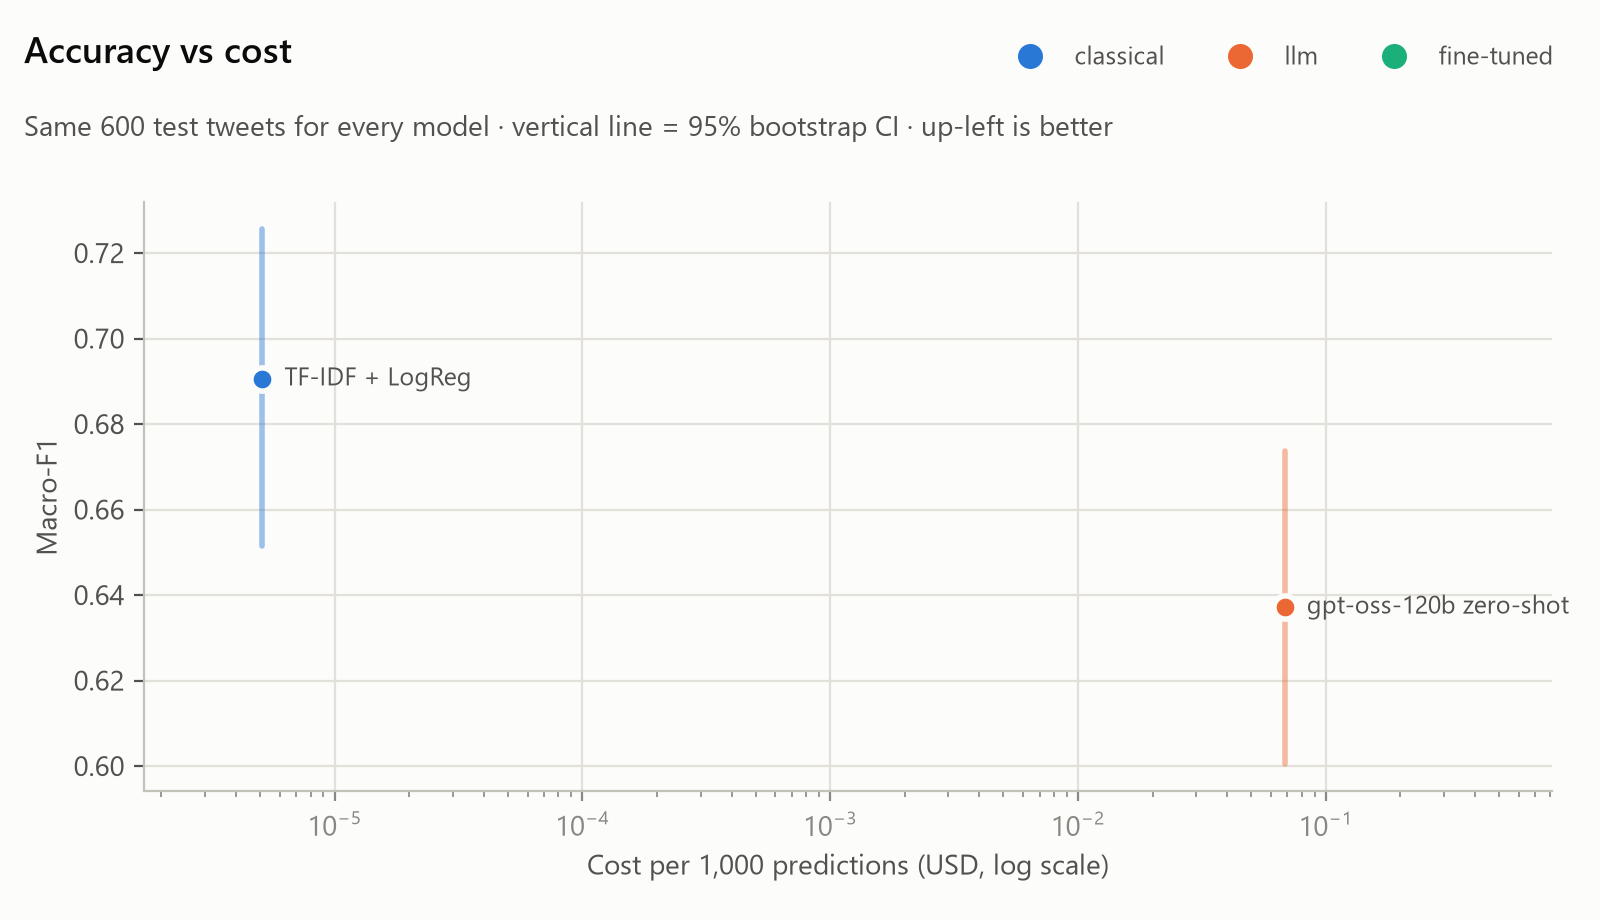
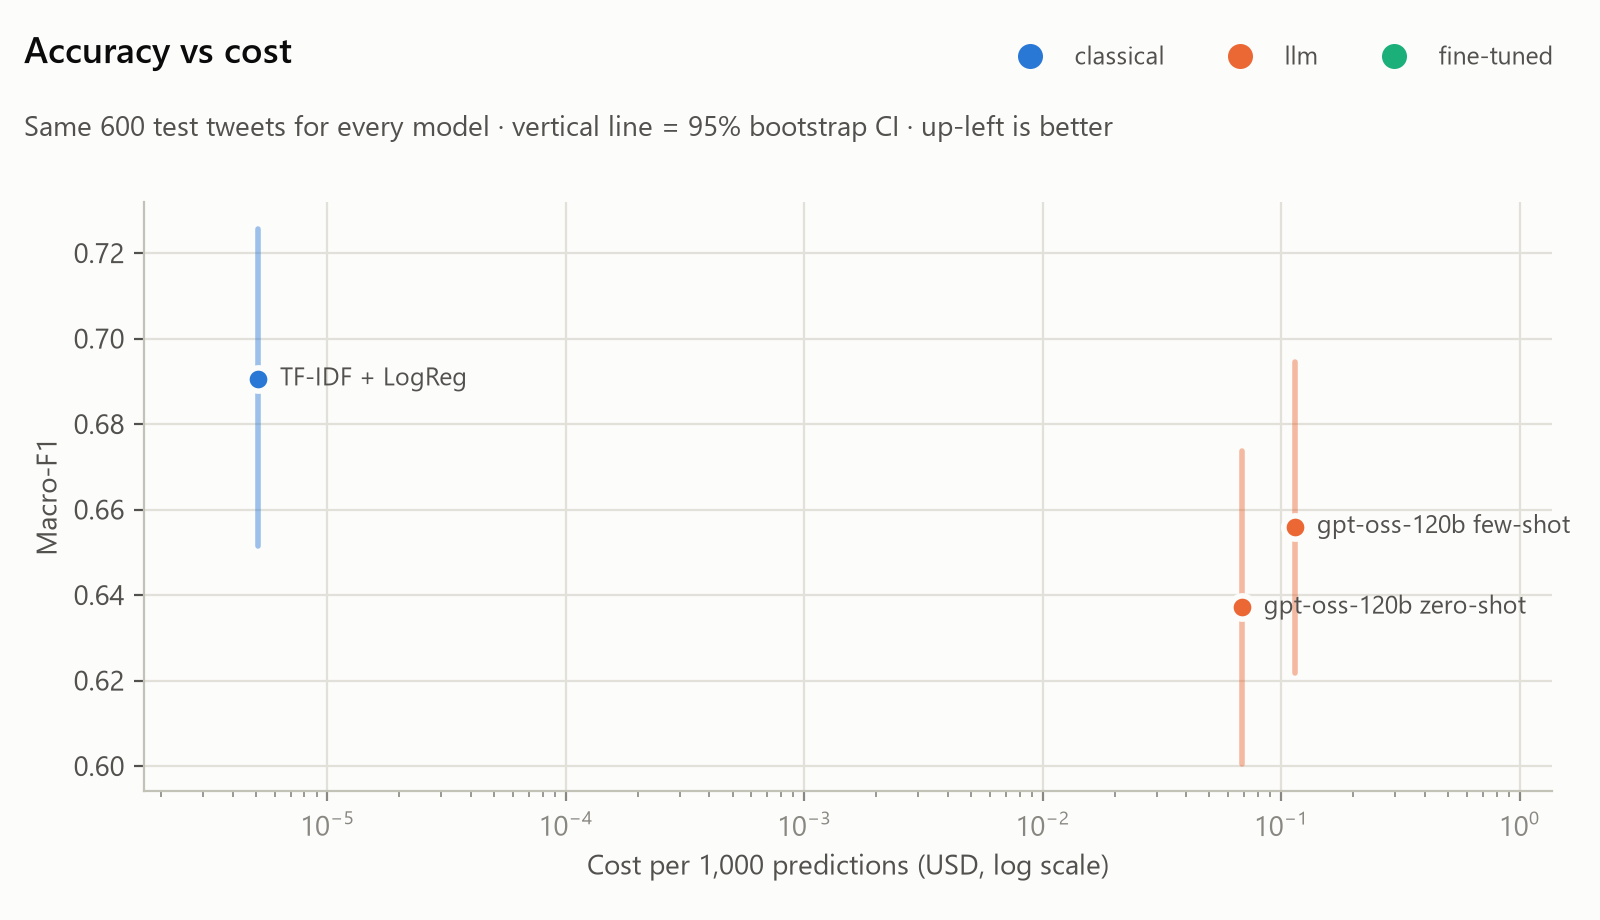
Few-shot LLM test results (600 tweets); robustness by language mix

diff --git a/docs/PROJECT_CONTEXT.md b/docs/PROJECT_CONTEXT.md
@@ -283,11 +283,13 @@ flowchart LR
 |---|---|---|---|---|---|
 | TF-IDF (word 1–2 + char 2–5) + LogReg, C=0.3 | 0.642 | **0.687** [0.669, 0.703] | 0.411 | 1.9 ms (laptop CPU, batch 1) | 6.2 MB (316k weights) |
 | Groq gpt-oss-120b zero-shot | 0.602 [0.531, 0.664]¹ | **0.637** [0.600, 0.674]² | *running* | 625 ms (API, incl. network) | 117B MoE, 5.1B active (hosted) |
-| Groq gpt-oss-120b few-shot | 0.674 [0.608, 0.731]¹ | *running* | *running* | 889 ms (API, incl. network) | 117B MoE, 5.1B active (hosted) |
+| Groq gpt-oss-120b few-shot | 0.674 [0.608, 0.731]¹ | **0.656** [0.622, 0.694]² | *running* | 702 ms (API, incl. network) | 117B MoE, 5.1B active (hosted) |
 
 ¹ LLM val scores are on a 200-tweet stratified subset (D-023). TF-IDF scores **0.688 [0.619, 0.747]** on those same 200 tweets. LLM cost per 1k predictions (list price): zero-shot **$0.070**, few-shot **$0.101**.
 
-² Test = the 600-tweet stratified subset (D-023). TF-IDF scores 0.690 [0.651, 0.726] on the same 600 tweets (0.687 on all 3,000, so the subset is representative). Paired bootstrap: zero-shot − TF-IDF = **−0.053 [−0.099, −0.009]**, so zero-shot is significantly *worse* than TF-IDF on test, confirming the val finding (C-010). Zero-shot cost on test: $0.068 per 1k.
+² Test = the 600-tweet stratified subset (D-023). TF-IDF scores 0.690 [0.651, 0.726] on the same 600 tweets (0.687 on all 3,000, so the subset is representative). Paired bootstrap: zero-shot − TF-IDF = **−0.053 [−0.099, −0.009]**, so zero-shot is significantly *worse* than TF-IDF on test, confirming the val finding (C-010). Zero-shot cost on test: $0.068 per 1k. Few-shot − TF-IDF = **−0.034 [−0.078, +0.011]**: not significantly different, at $0.114 per 1k.
+
+**Robustness on the 600 test tweets (macro-F1), TF-IDF / zero-shot / few-shot:** code-mixed (n=286) 0.653 / 0.629 / 0.634 · mostly Hindi (n=238) **0.719** / 0.604 / 0.651 · mostly English (n=74) 0.500 / **0.704** / 0.695. The LLM is strongest where the text is English, and the supervised model where it is Hindi. That fits an LLM pre-trained mostly on English, versus a model that learned romanised-Hindi n-grams from the labelled data. (The English bucket is small; Phase 4 tests this with paired CIs.)
 
 - **TF-IDF is a respectable floor:** 0.687 on the official test set, against 0.750 for the best SemEval-2020 system. Per-class F1 on test: negative 0.71, neutral 0.62, positive 0.74. **Neutral is hardest**, and most errors are neutral confused with either polarity.
 - **Char n-grams carry the signal.** Char-only (0.640 val) beats word-only (0.614). Combining them adds little (0.642), as expected for free-spelling Hinglish.

diff --git a/docs/DECISION_LOG.md b/docs/DECISION_LOG.md
@@ -322,6 +322,7 @@ Every non-trivial decision, including the ones the project owner made when answe
 - **Revisit if:** the subset CI is too wide to support the headline claim. Then extend the test subset over more free days (the cache keeps earlier answers), or spend about $1 on the paid tier.
 - **Update 2026-10-06:** the daily token limit behaves as a rolling 24-hour window, not a calendar day. Quota spent at ~02:00 was usable again by ~15:30, so runs can be scheduled roughly every 24 h after the previous one.
 - **Update 2026-10-07:** once the window is full, Groq answers 429 with `retry-after` of only ~2–4 minutes (as tokens age out of the window), not hours. The client waits that out (it's below the 600 s "daily quota" cut-off), so a single `run_llm_all.py` left running **self-paces to the quota's refill rate**: ~200K tokens per 24 h, with no manual daily restarts. Only the successful attempt is timed, so latency figures are unaffected.
+- **Update 2026-10-14:** a Windows shutdown on Oct 8 killed the self-pacing batch (exit code 0x40010004). Re-running `run_llm_all.py` resumed from the cache (224/300 YouTube answers kept). Long unattended runs need the machine to stay on, or a restart afterwards.
 
 ### D-024 — Report 95% bootstrap confidence intervals for macro-F1
 - **Date / phase:** 2026-10-05 · Phase 2

diff --git a/reports/evaluation/results.md b/reports/evaluation/results.md
@@ -5,6 +5,7 @@
 | Model | Macro-F1 [95% CI] | Accuracy | p50 latency | Cost / 1k predictions | Parameters | Size |
 |---|---|---|---|---|---|---|
 | TF-IDF + LogReg | **0.690** [0.651, 0.726] | 0.685 | 1.9 ms (laptop CPU, batch 1) | $0.000005 | 316k | 6 MB |
+| gpt-oss-120b few-shot | **0.656** [0.622, 0.694] | 0.677 | 702 ms (groq API, incl. network) | $0.1139 | 117B (MoE, 5.1B active) | hosted |
 | gpt-oss-120b zero-shot | **0.637** [0.600, 0.674] | 0.668 | 625 ms (groq API, incl. network) | $0.0681 | 117B (MoE, 5.1B active) | hosted |
 
 ## B. Self-hosted models on the full official test set (3000 tweets)
@@ -18,6 +19,7 @@
 | Model | Code-mixed | Mostly Hindi | Mostly English | YouTube (OOD) |
 |---|---|---|---|---|
 | TF-IDF + LogReg | 0.653 | 0.719 | 0.500 | 0.411 |
+| gpt-oss-120b few-shot | 0.634 | 0.651 | 0.695 | nan |
 | gpt-oss-120b zero-shot | 0.629 | 0.604 | 0.704 | nan |
 
 Bucket sizes: Code-mixed 286, Mostly Hindi 238, Mostly English 74; YouTube 3168.
@@ -26,4 +28,4 @@ Bucket sizes: Code-mixed 286, Mostly Hindi 238, Mostly English 74; YouTube 3168.
 
 | A vs B | Macro-F1(A) − Macro-F1(B) [95% CI] | P(A not better) |
 |---|---|---|
-| gpt-oss-120b zero-shot vs TF-IDF + LogReg | -0.053 [-0.099, -0.009] | 0.991 |
+| gpt-oss-120b few-shot vs TF-IDF + LogReg | -0.034 [-0.078, +0.011] | 0.933 |
